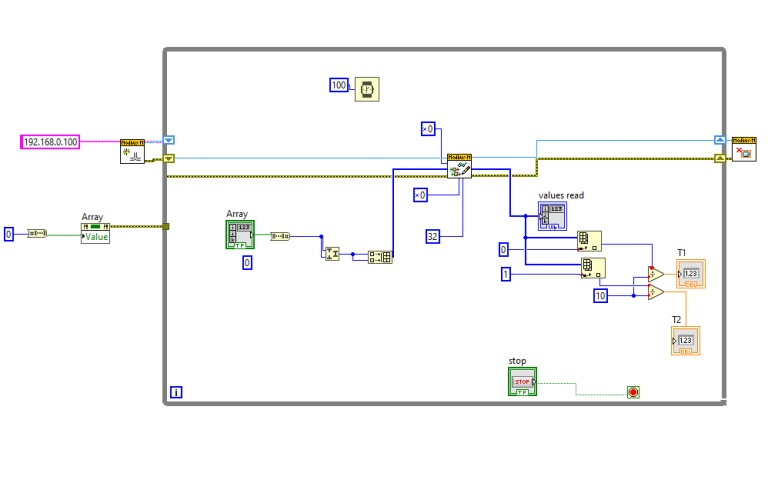
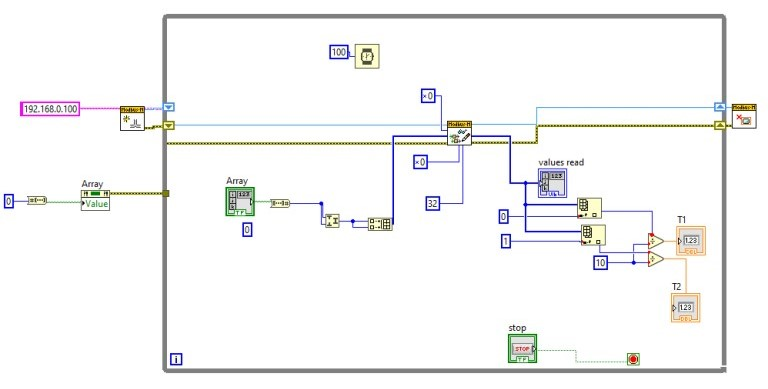
Snad finální verze

diff --git a/obsah.tex b/obsah.tex
@@ -15,7 +15,7 @@ Cílem úlohy bylo získávat údaje ze dvou termočlánků a dalšího snímač
 \hline 2$\times$ Digitální vstupy 24V, 4x & 021-1BD00 \\ 
 \hline 1$\times$  Relátkové výstupy 3A & 022-1HB10 \\ 
 \hline Indukční snímač & Balluff BES 517-132-P7-H-S4 \\ 
-\hline Dva termočlánky & Typ z podkladů nezjištěn \\
+\hline 2$\times$ termočlánek & Typ neznámý \\
 \hline Počítač & LabVIEW \\
 \hline
 \end{tabular}
@@ -24,11 +24,11 @@ Cílem úlohy bylo získávat údaje ze dvou termočlánků a dalšího snímač
 \begin{figure}[H]
 \centering
 \includegraphics[width=.55\linewidth]{zapojeni_novy.jpg}
-\caption{Laboratorní sestava s distribuovanými vstupy, indukčním snímačem, termočlánky a zdrojem}
+\caption{Laboratorní sestava s komunikačním modulem, vzdálenými kartami, termočlánky, indukčním snímačem a zdrojem}
 \label{fig:zapojeni}
 \end{figure}
 
-Indukční snímač Balluff BES 517-132-P7-H-S4 je na obrázku~\ref{fig:senzor}.Napájení snímače je 10 až 55 V DC a má jmenovitou spínací vzdálenost 40 mm. Výstupem jsou dva navzájem negované digitální signály.
+Indukční snímač Balluff BES 517-132-P7-H-S4 je na obrázku~\ref{fig:senzor}.Napájení snímače je 10 až 55 V DC a má jmenovitou spínací vzdálenost 40 mm. Výstupem jsou dva navzájem negované digitální signály. Napájen je z 24V zdroje.
 
 \begin{figure}[H]
 \centering
@@ -41,15 +41,25 @@ Indukční snímač Balluff BES 517-132-P7-H-S4 je na obrázku~\ref{fig:senzor}.
 Modbus TCP/IP umožňuje číst data dostupná v registrech síťového zařízení. K modulu Yaskawa se v Labview připojuje na adrese 192.168.0.100, která byla přiřazena DHCP serverem. Před komunikací je třeba zajistit síťovou dostupnost této adresy a odpovídající konfiguraci vstupních modulů.
 
 \begin{figure}[H]
-\makebox[\textwidth][c]{\includegraphics[width=1.2\linewidth]{block_diagram_screen_novy.jpg}}
+\centering
+\makebox[\textwidth][c]{\includegraphics[width=1.3\linewidth]{block_diagram_screen_novy.jpg}}
 \caption{Blokový diagram v LabVIEW}
 \label{fig:labview}
 \end{figure}
 
-Na obrázku~\ref{fig:labview} je připojení vytvořeno před cyklem \textit{While Loop}. V cyklu se opakovaně provádí čtení hodnot a zobrazuje se pole \textit{values read}. Z jeho prvků s indexy 0 a 1 se získávají hodnoty pro indikátory T1 a T2; obě jsou děleny deseti. Tento převod odpovídá zobrazení hodnoty uložené v desetinách jednotky. V diagramu je dále vidět konstanta 32 u čtecího bloku a čekání 100 ms mezi průchody cyklem. Tlačítko \textit{Stop} cyklus ukončí a po něm se spojení uzavře. Přesný význam všech vstupů čtecího bloku a mapu registrů nelze ze snímku bezpečně určit.
+Na obrázku~\ref{fig:labview} je připojení vytvořeno před cyklem \textit{while loop}. Jak již bylo řečeno, je použita IP adresa přiřazená DHCP serverem, k navázání komunikace slouží bloček \textit{Create Master Instance}. Zároveň se inicializuje pole (bloček proměnné \textit{Array}) pro zápis do digitálních výstupů nulami.
 
-\subsection{Vyhodnocení}
-Blokový diagram dokládá návrh cyklického čtení dat přes Modbus TCP/IP a zpracování dvou hodnot pro indikátory teploty. Podklady neobsahují čitelné naměřené hodnoty ani záznam ověřující změnu stavu indukčního snímače, a proto nelze doložit dosažené výsledky ani potvrdit přenos všech tří údajů. Pro úplné vyhodnocení je nutné doplnit typ termočlánků, přiřazení kanálů a registrů a naměřené hodnoty včetně stavu snímače.
+Středobodem smyčky je blok pro Modbus TCP komunikaci \textit{Modbus Master Read/Write}. Konstantní vstupní hodnota 32 určuje počet registrů, se kterými se bude komunikovat. Konstanta 0 nahoře určuje počáteční hodnotu pro zápis do registrů. Konstanta 0 dole určuje počáteční hodnotu pro čtení z registrů. Jak počáteční adresa pro čtení, tak pro zápis, je 0, jelikož komunikační karta Yaskawa IM053-MT01 používá pro čtení a zápis dvě různé oddělené sekce. Registry jsou 16bitové.
 
-\subsection{Použité přístroje}
+Z vyčtených prvků s indexy 0 a 1 se získávají hodnoty jednotlivých termočlánků. Jelikož termočlánková karta měří teplotu s přesností na desetiny, aby nemuselo být číslo posíláno ve floating formátu, je přenásobeno deseti, čímž se z něj stává celočíselné číslo. Vyčtené celočíselné hodnoty teplot je tedy třeba vydělit deseti. 
+
+Pro zápis do registrů se pole boolean hodnot převede na 16bitové číslo, které se zapisuje do registru. Při zapisování do registrů je třeba si také uvědomit endianitu a přizpůsobit jí program - proto je použit blok \textit{Join numbers}. Díky tomu je možné ovládat DO karty, které indikují pomocí led diody, jaké konkrétní výstupy jsou aktivní.
+
+Pro vyčtení stavů jednotlivých karet slouží pole \textit{values read}. Ke kartám digitálních vstupů je připojen indukční snímač, který je přímo napájen ze zdroje. Jeho stav/měření ovlivňuje příslušná čísla v poli values read.
+
+Tlačítko \textit{Stop} cyklus ukončí a blok napravo od smyčky while uzavře komunikaci. Proto, aby program dobře fungoval, je třeba vždy otevřenou komunikaci uzavřít.
+
+\section{Vyhodnocení}
+Blokový diagram realizuje čtení a zápis dat přes Modbus TCP/IP. Pomocí programu je možné zapisovat do libovolných karet digitálních výstupů, číst z termočlánkových karet teploty a číst stav indukčního snímače pomocí digitálních vstupů. Celá úloha ukázala, jakým způsobem se komunikuje přes MODBUS TCP/IP protokol s komunikačním modulem se vzdálenými kartami nejrůznějších typů.
+
 

diff --git a/uvod-zadani.tex b/uvod-zadani.tex
@@ -14,5 +14,5 @@ Jména: Filip Ferko, Michal Hájnik, Pavel Nevím\\[0.8cm]
 Datum měření: 16. 11. 2026
 \newpage
 \section{Zadání}
-Připojte dva termočlánky a indukční snímač k distribuovaným vstupům a realizujte přenos jejich údajů pomocí protokolu Modbus TCP/IP. V prostředí LabVIEW vytvořte aplikaci pro čtení dat z připojených karet.
+Připojte dva termočlánky a indukční snímač ke vzdáleným vstupům a realizujte přenos jejich údajů pomocí protokolu Modbus TCP/IP. V prostředí LabVIEW vytvořte aplikaci pro čtení a zápis dat z připojených karet.
 \newpage

diff --git a/main.tex b/main.tex
@@ -1,5 +1,5 @@
 
-\documentclass[12pt,a4paper]{article}
+\documentclass[12pt,a4paper, oneside]{article}
 
 \input{preamble}
 
